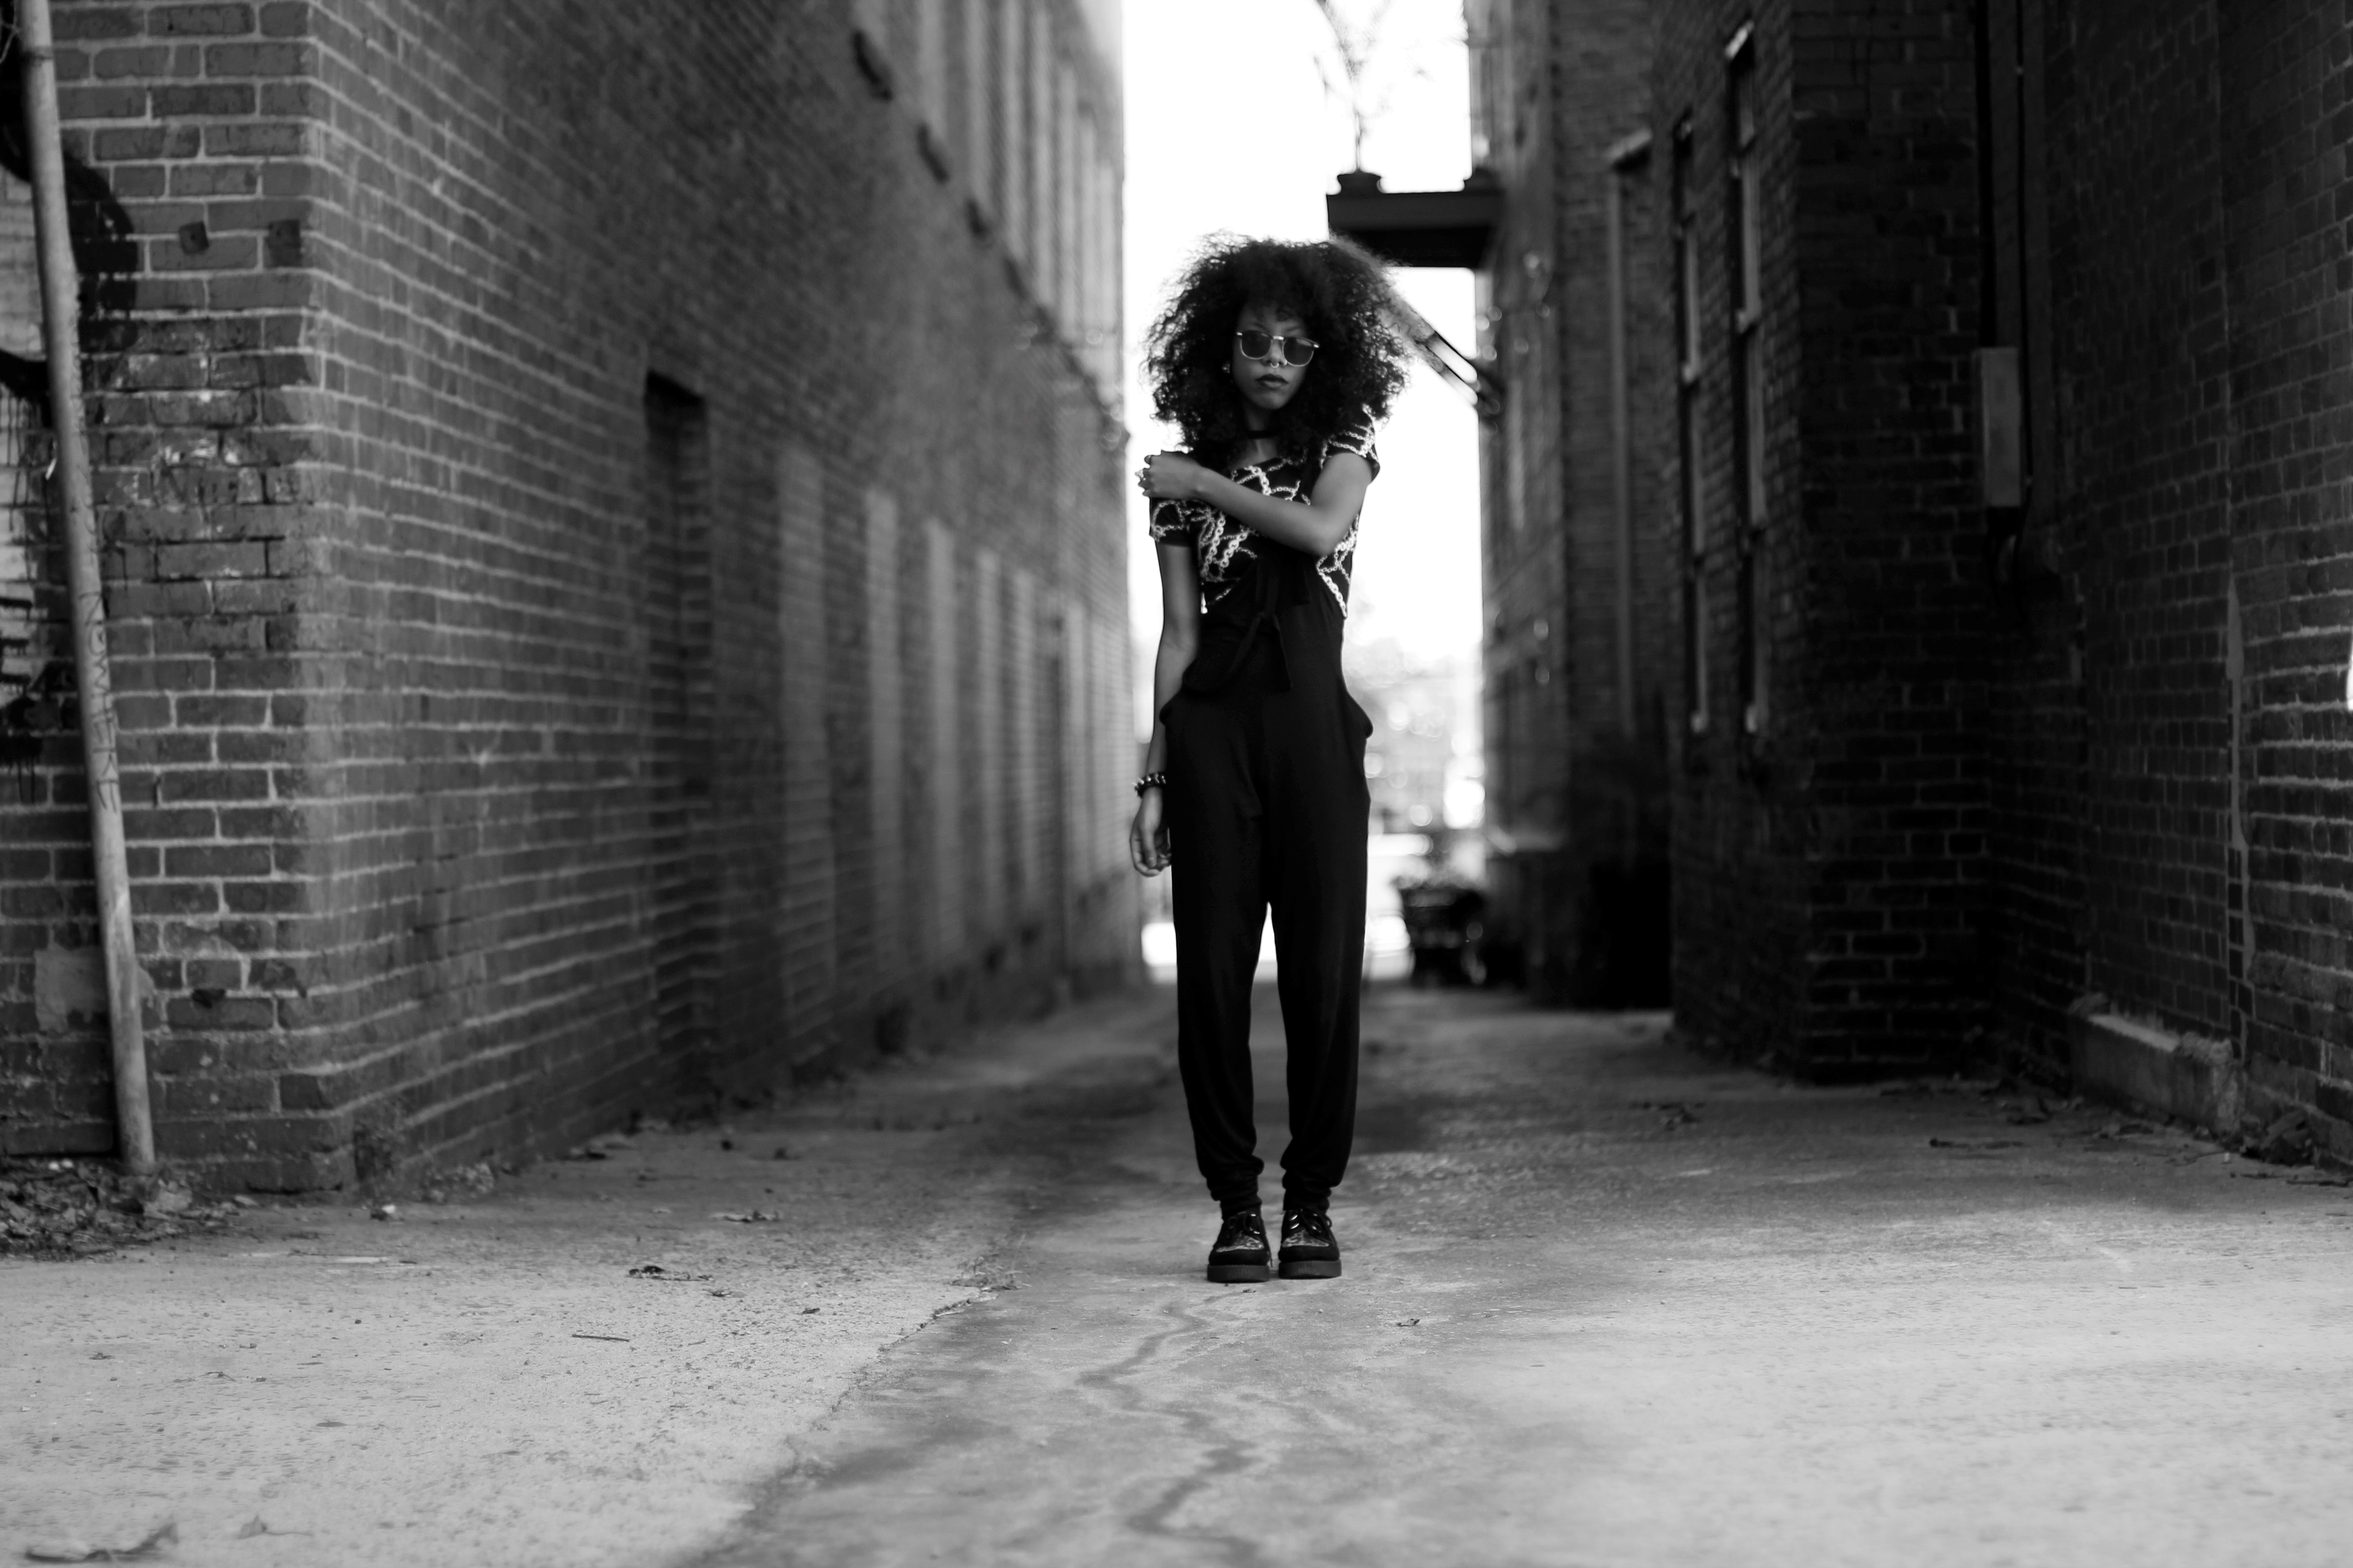
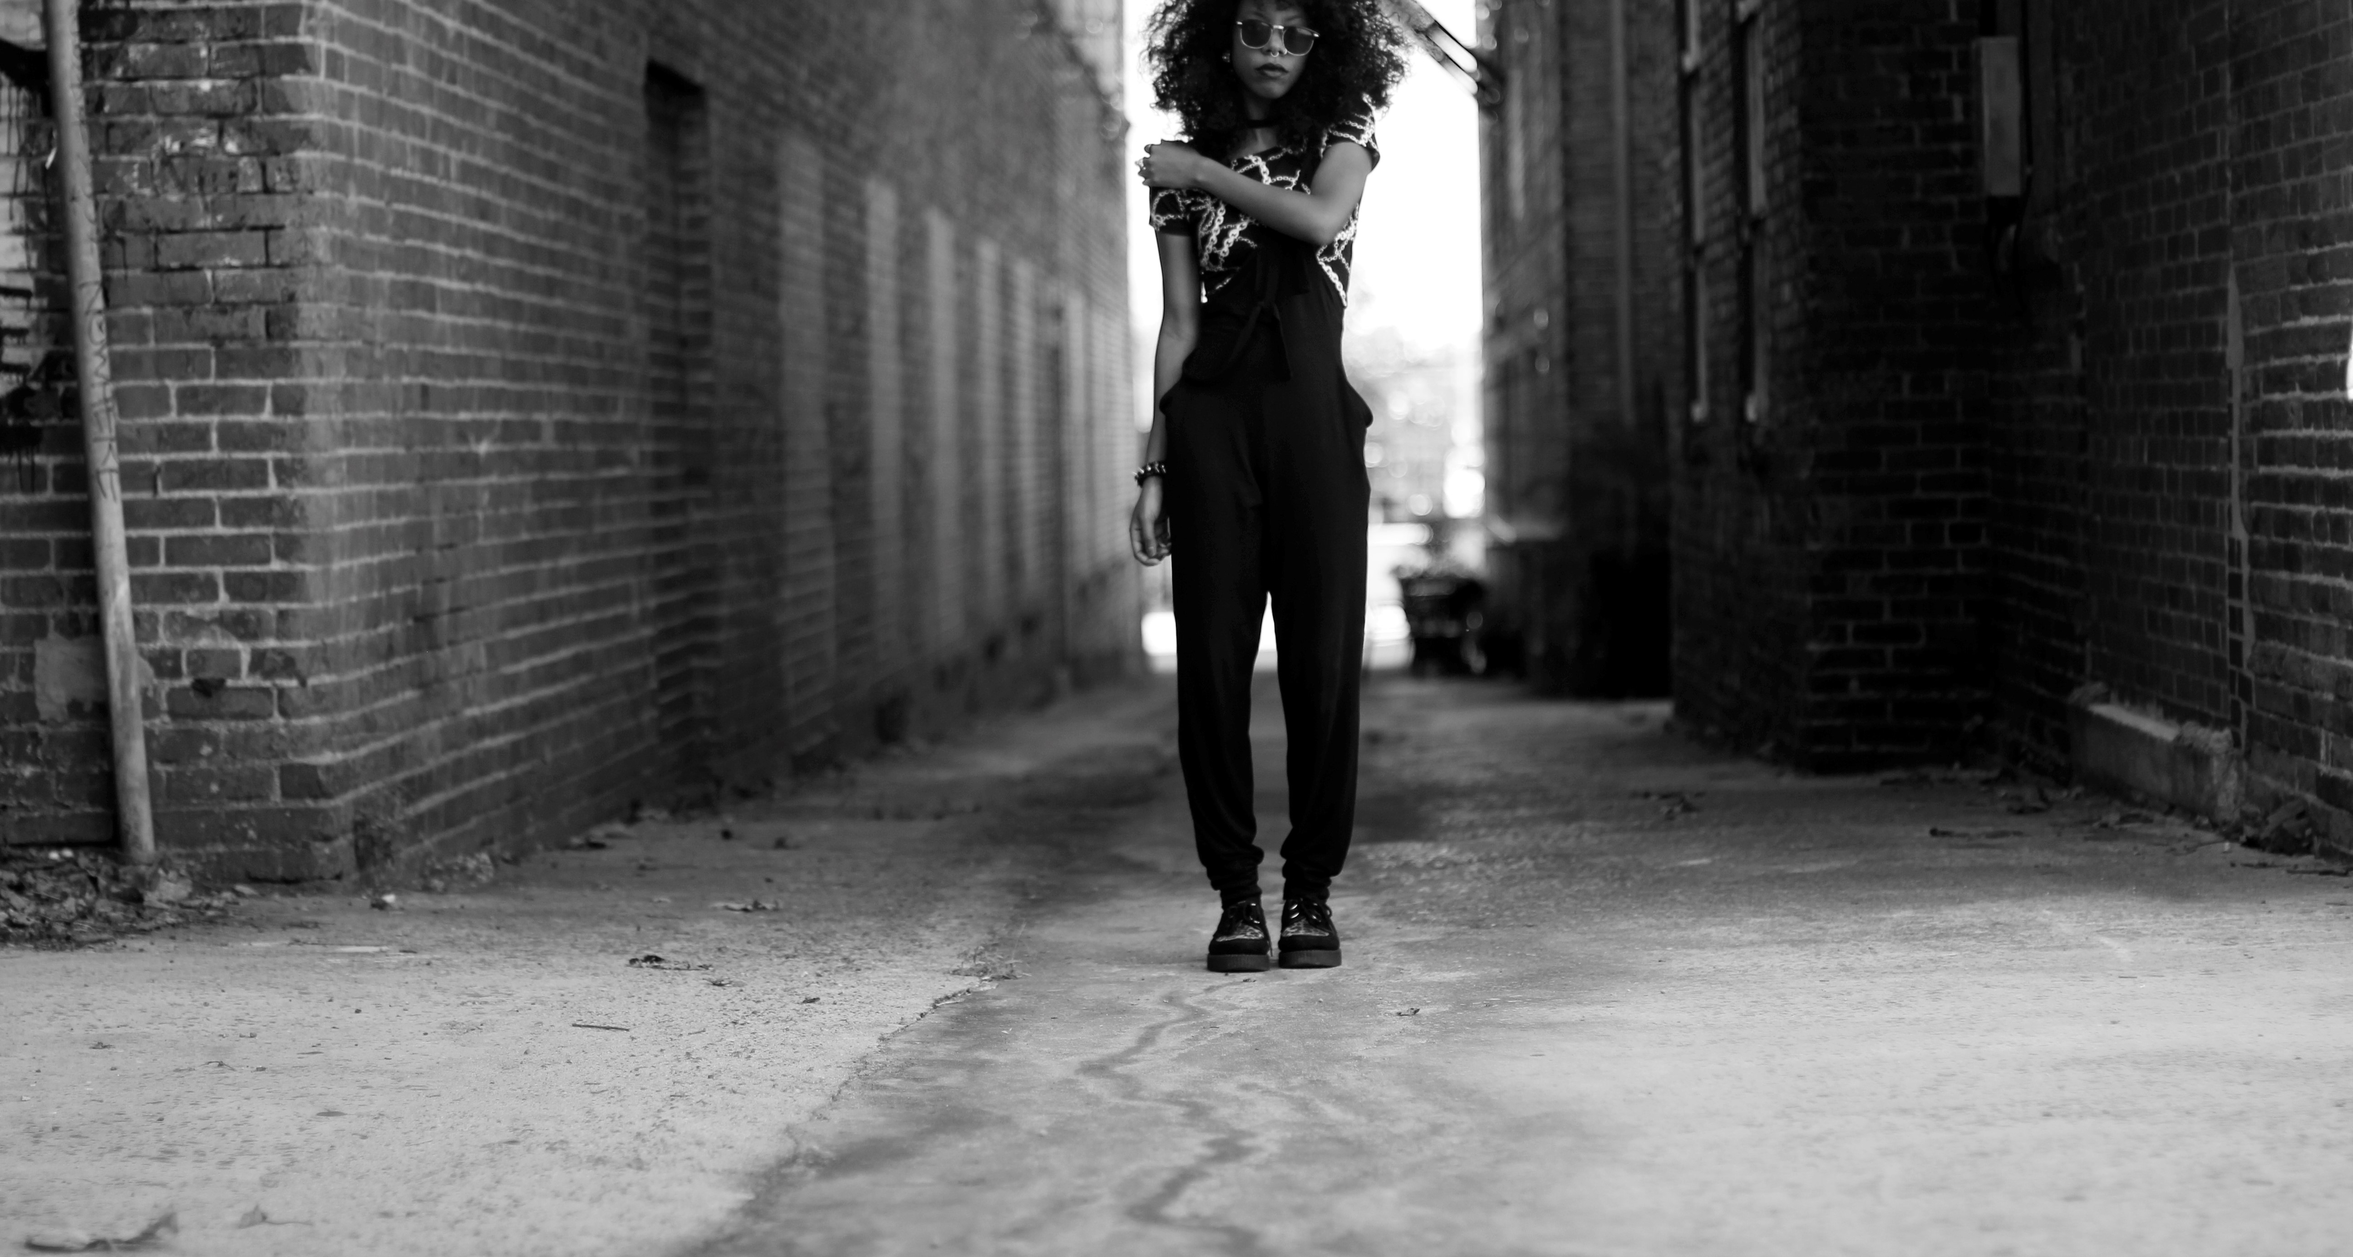
Removed my picture and updated bkg images

diff --git a/index.html b/index.html
@@ -96,12 +96,12 @@
           <h4 class="mb-4">Creative Problem Solver 🚧 & Critical Thinker 💭</h4>
         </div>
         <div class="about-content d-flex gap-5 align-items-center h-100">
-          <img
+          <!-- <img
             src="images/tmdb.jpg"
             alt=""
             class="about-img img-fluid rounded-circle"
-          />
-          <p class="lead">
+          /> -->
+          <p class="lead text-center mt-2">
             I am a web developer specializing in building creative business
             solutions and solving everyday problems. I am focused on creating,
             testing and analyzing technology solutions that improve efficiency,
